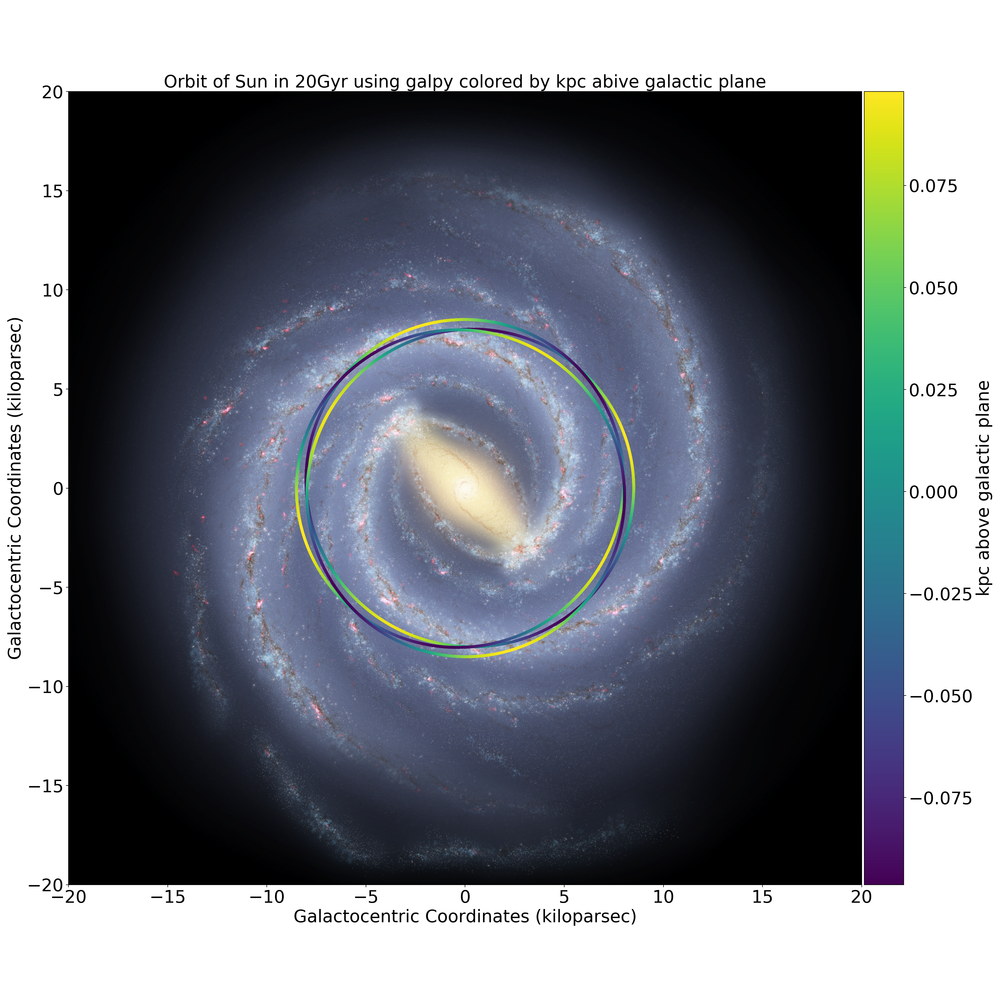
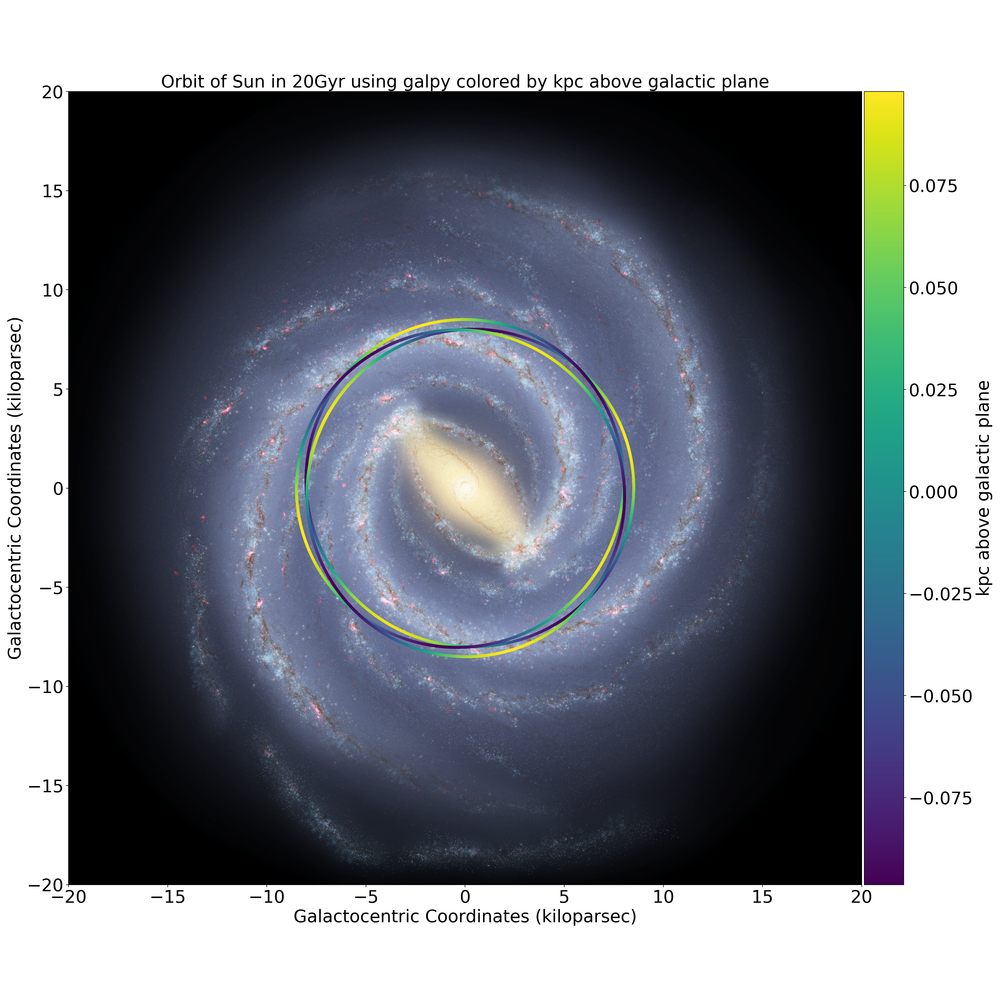
typo

Changed region(s): [[0.155, 0.062, 0.775, 0.093]]

diff --git a/README.md b/README.md
@@ -110,7 +110,7 @@ plot_instance.s = 10
 
 # plot
 plot_instance.mw_plot(x, y, [z, 'kpc above galactic plane'],
-                      'Orbit of Sun in 20Gyr using galpy colored by kpc abive galactic plane')
+                      'Orbit of Sun in 20Gyr using galpy colored by kpc above galactic plane')
 
 # Save the figure
 plot_instance.savefig(file='mw_plot.png')
